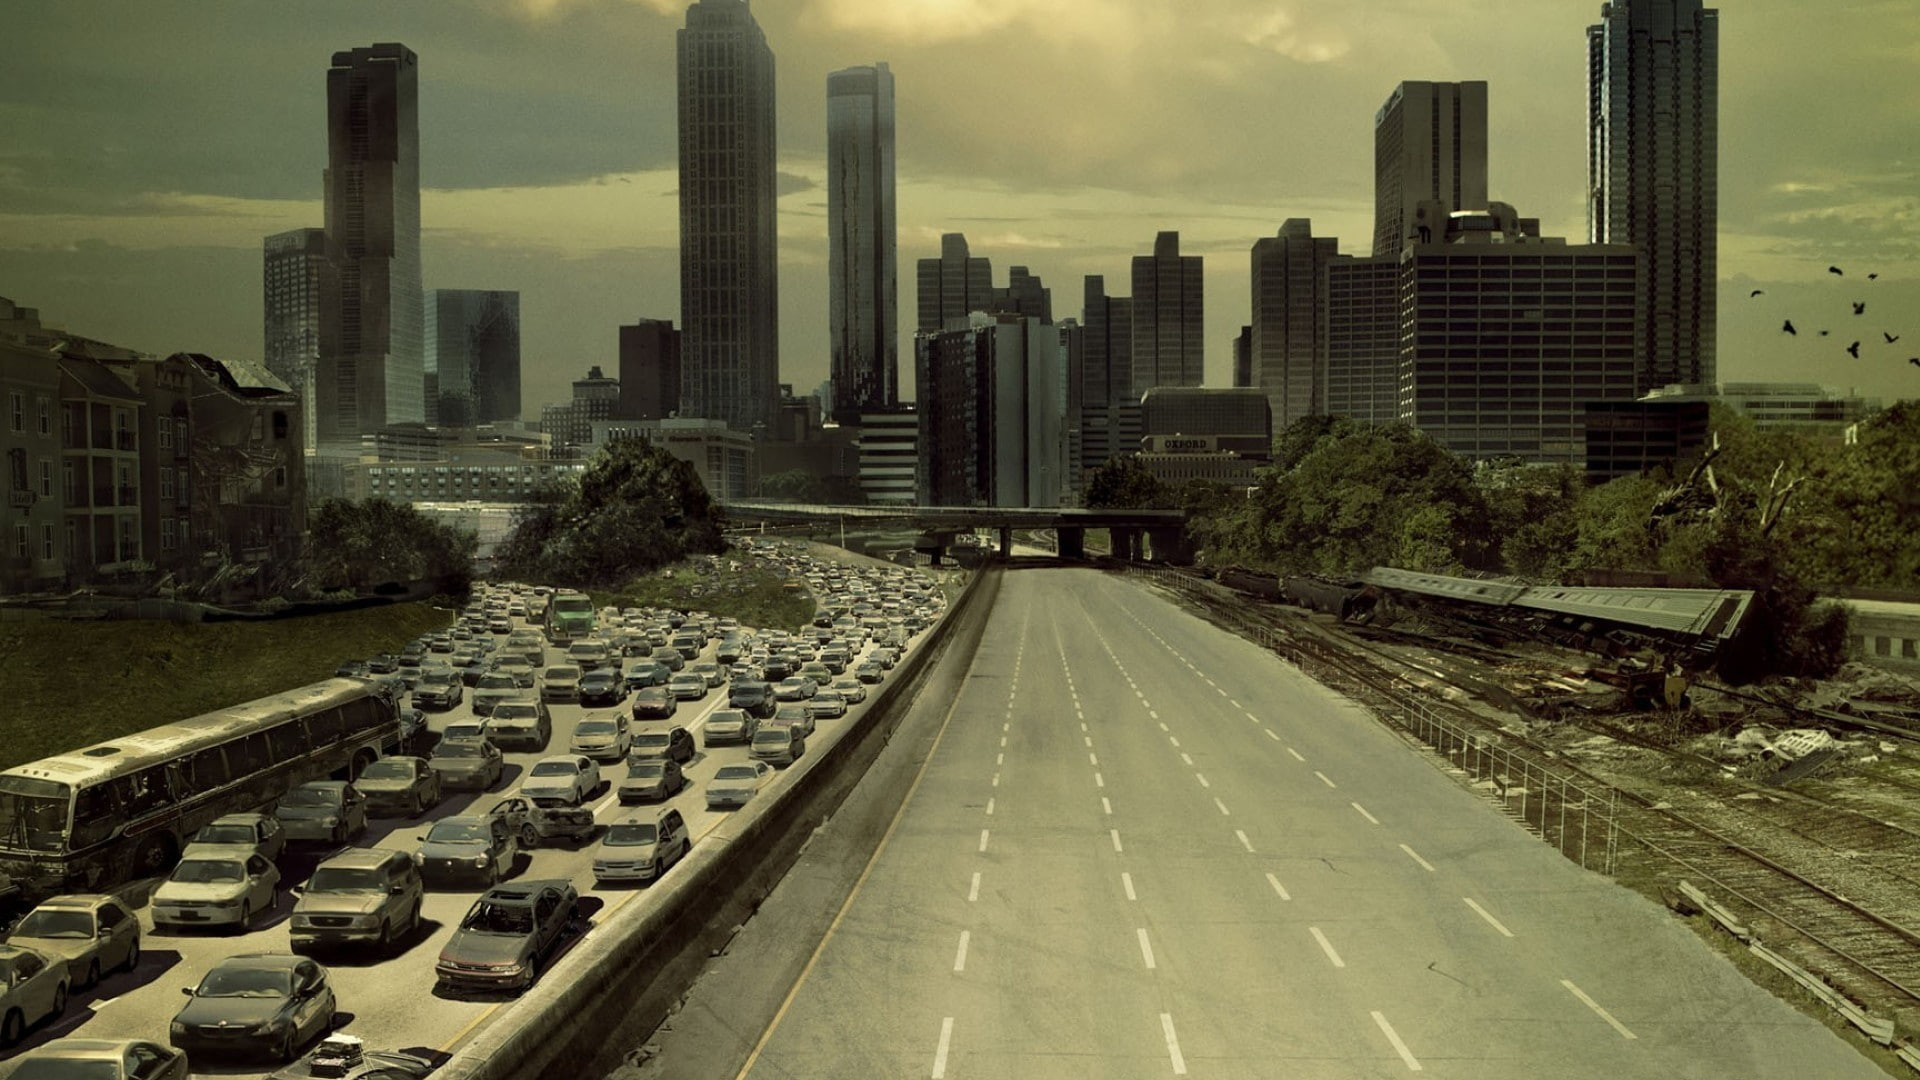
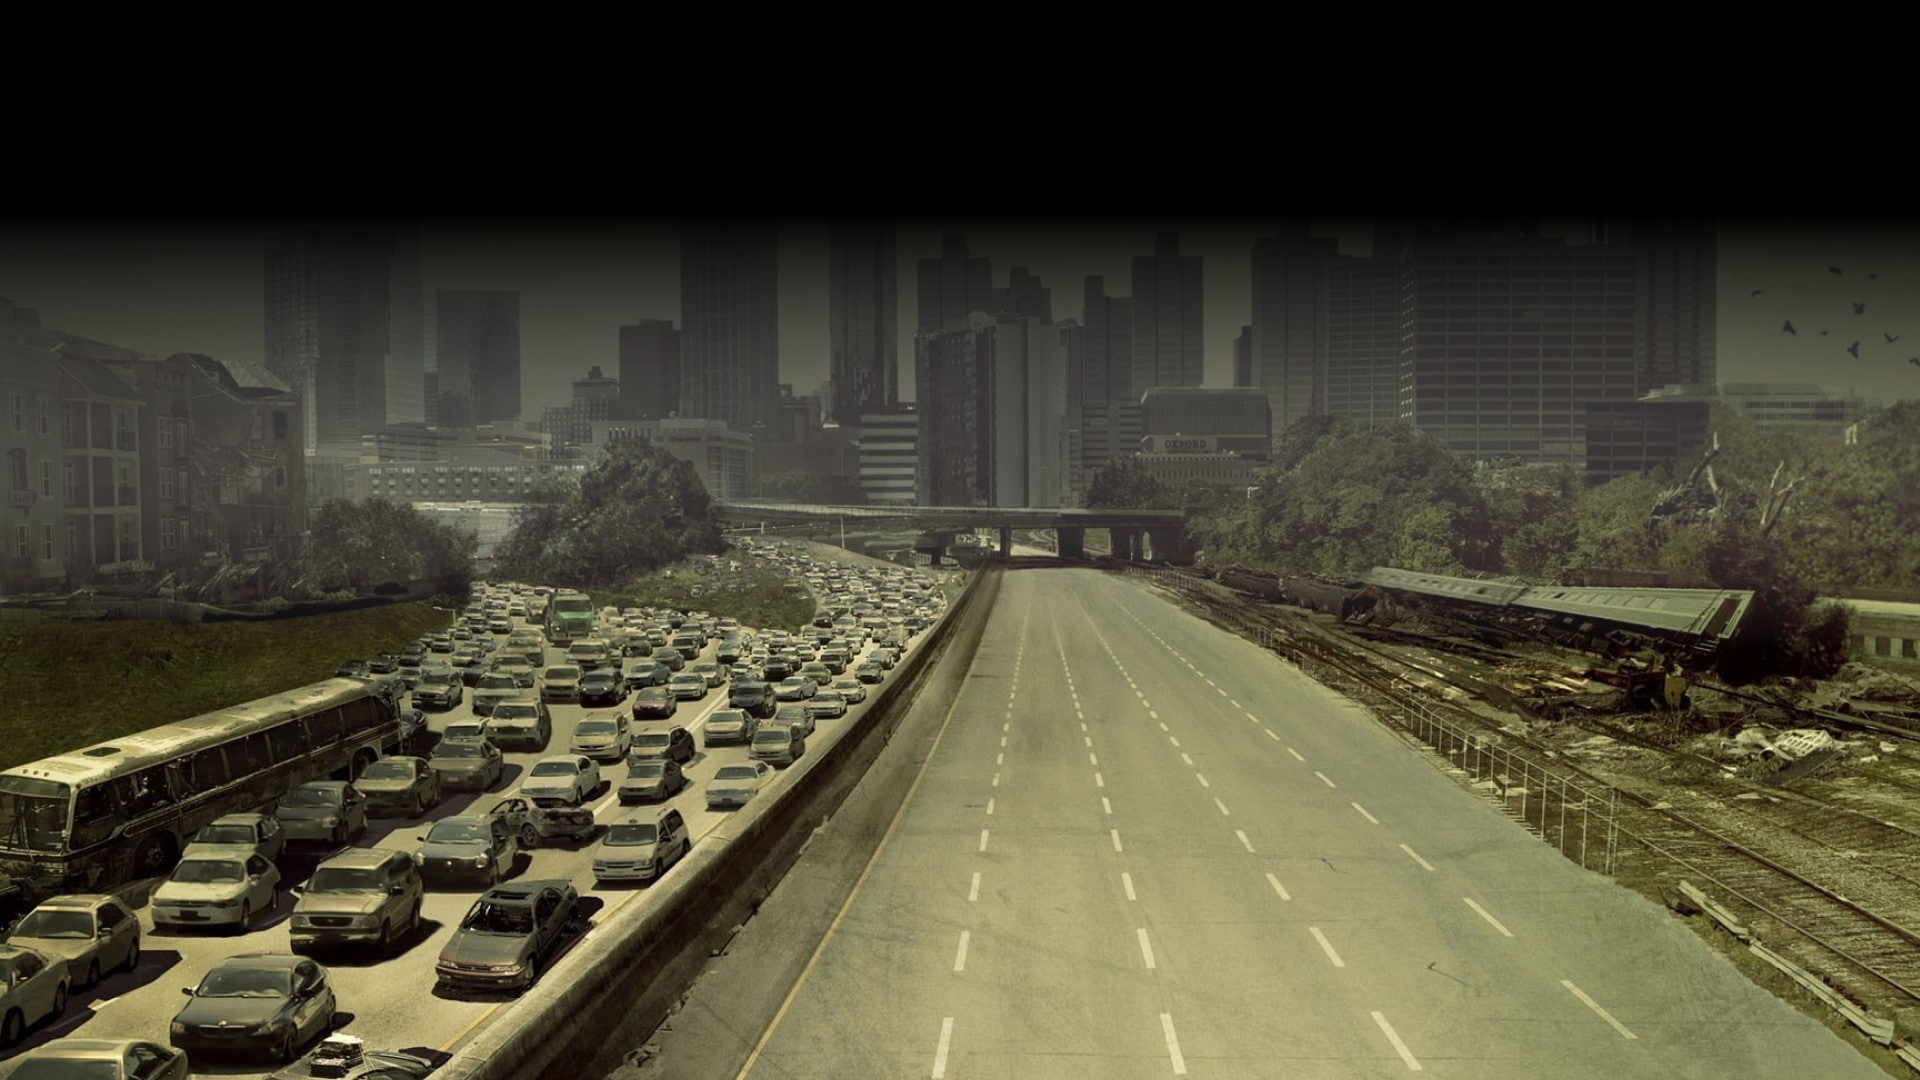
walking font

diff --git a/style.css b/style.css
@@ -18,6 +18,12 @@ table, caption, tbody, tfoot, thead, tr, th, td {
     vertical-align: baseline;
     background: transparent;
 }
+
+@font-face {
+    font-family: myFont;
+    src: url("Dmtr_img/Dead_Kansas.ttf");
+}
+
 body {
     line-height: 1;
 }
@@ -68,7 +74,7 @@ html::-webkit-scrollbar {
 .twd{
     height: 100vh;
     width: 100%;
-    background-image: linear-gradient(rgba(0,0,0,0.7), rgba(0,0,0,0.7)), url(../Dmtr_img/backimg.jpg);
+    background-image: linear-gradient(rgba(0,0,0,0.6), rgba(0,0,0,0.6)), url("Dmtr_img/backimg.jpg");
     background-size: cover;
     background-position: center;
 
@@ -77,37 +83,26 @@ nav{
     display: flex;
     align-items: center;
     justify-content: space-between;
-    padding-top: 40px;
-    padding-right: 10%;
-    padding-left: 10%;
+    padding-top: 10px;
+    padding-right: 5%;
+    padding-left: 5%;
 }
-
-/*
-header {
-    background-color: #333;
-    color: #fff;
-    padding: 20px;
+.logo{
+    width: 25%;
 }
-
-nav {
-    display: flex;
-    justify-content: space-between;
+nav ul li{
+    font-family: myFont, serif;
+    font-size: 15px;
+    list-style-type: none;
+    display: inline-block;
+    padding: 10px 20px;
 }
-
-ul {
-    list-style: none;
-    margin: 0;
-    padding: 0;
-    display: flex;
-}
-
-li {
-    margin: 0 10px;
-}
-
-a {
-    color: #fff;
+nav ul li a{
+    color: white;
     text-decoration: none;
+    font-weight: bold;
 }
-
- */
+nav ul li a:hover{
+    color: #a28b55;
+    transition: .3s;
+}

diff --git a/Homepage.html b/Homepage.html
@@ -10,7 +10,7 @@
 <body>
     <div class = "twd">
         <nav>
-            <div class = "logo"><img src="Dmtr_img/logo.png"></div>
+            <img class = logo src="Dmtr_img/logo.png" alt="The Walking Dead Logo">
             <ul>
                 <li></li>
                 <li><a class="active" href="Homepage.html">Homepage</a></li>
